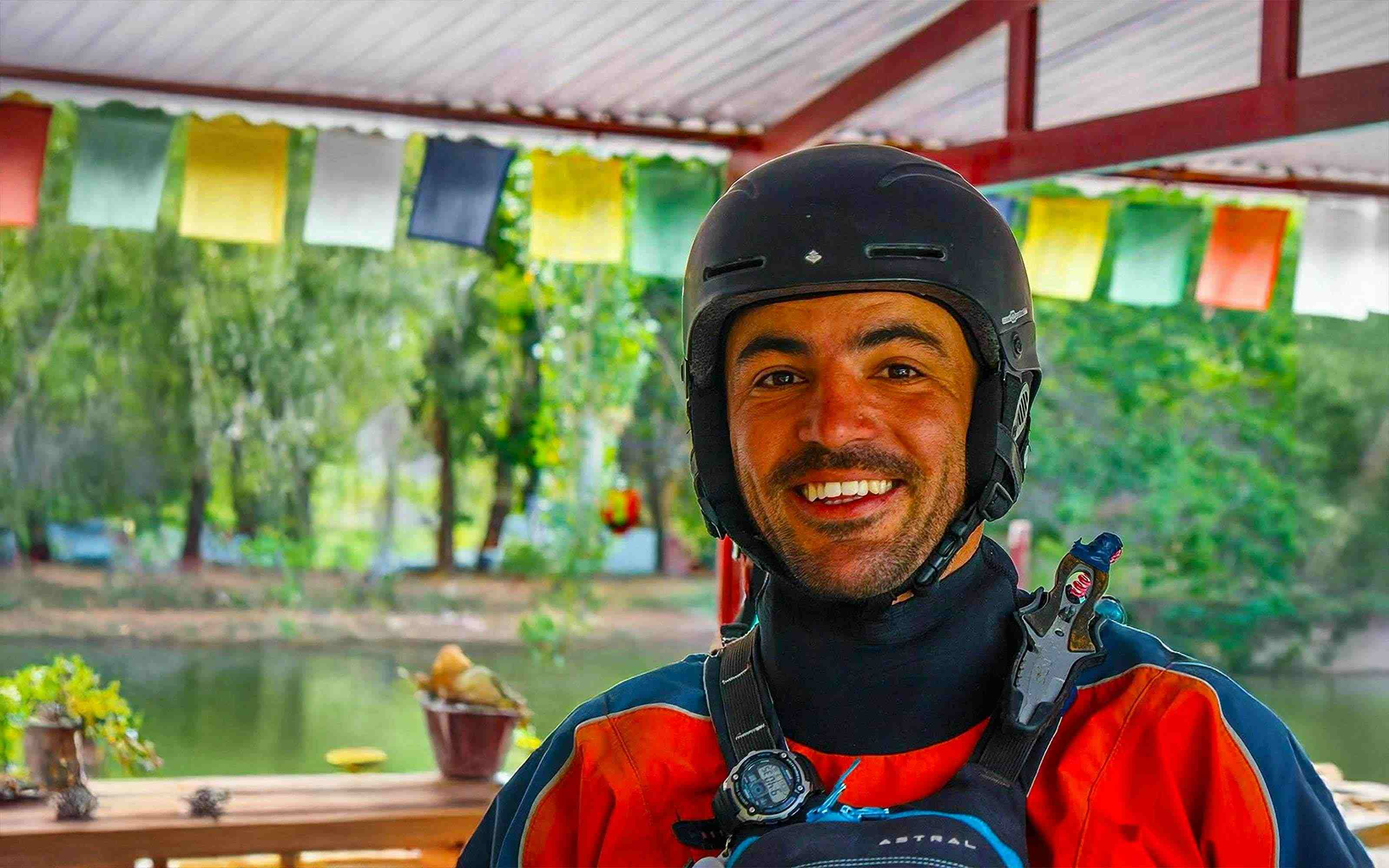
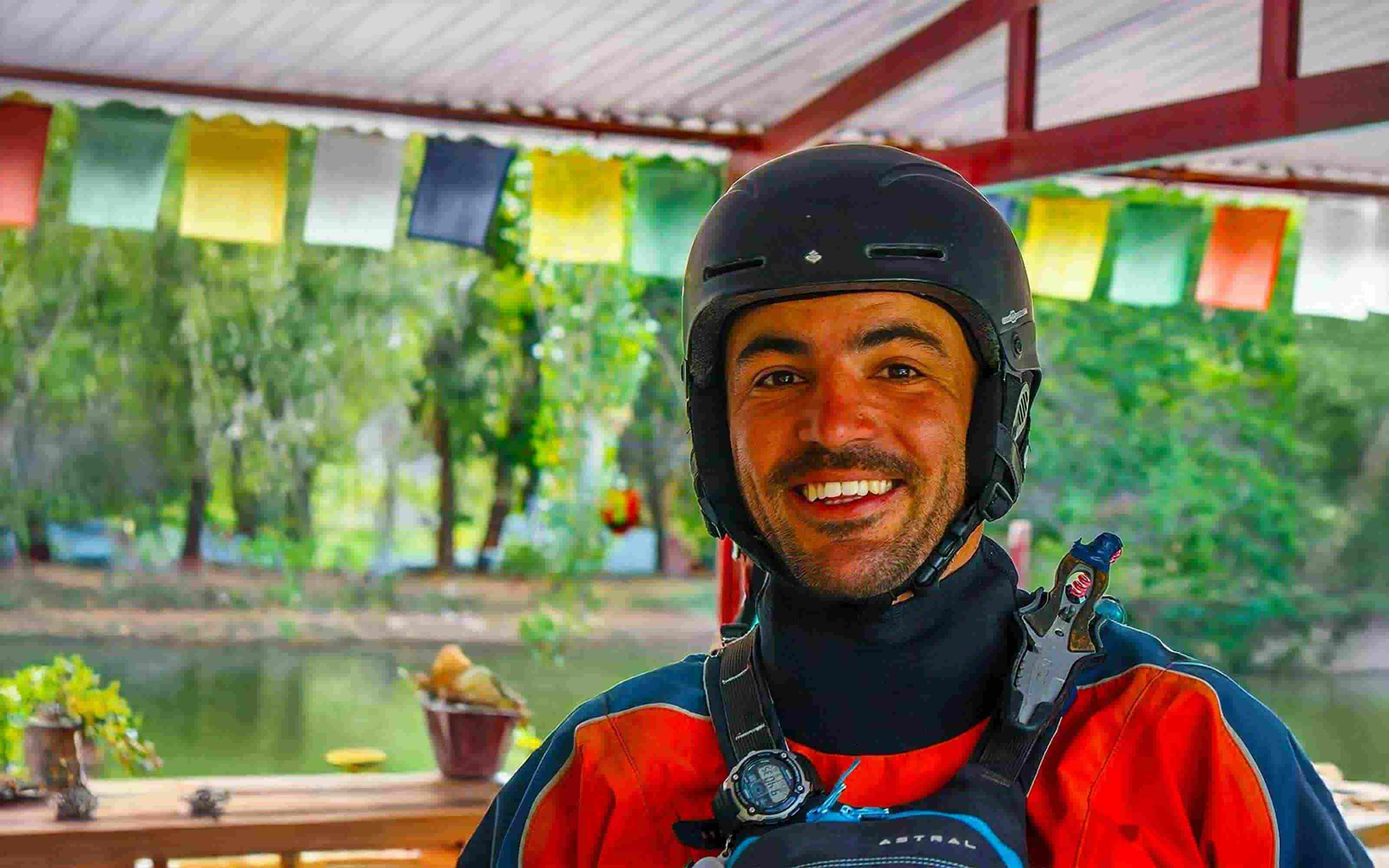
W04 Assignment: Rafting Site – Update About Us Page

diff --git a/wwr/styles/rafting.css b/wwr/styles/rafting.css
@@ -139,8 +139,6 @@ nav ul li {
     display: grid;
     grid-template-columns: repeat(5, 1fr);
     gap: 1rem;
-
-    border: solid red 1px;
 }
 
 .adventure-section div figure {
